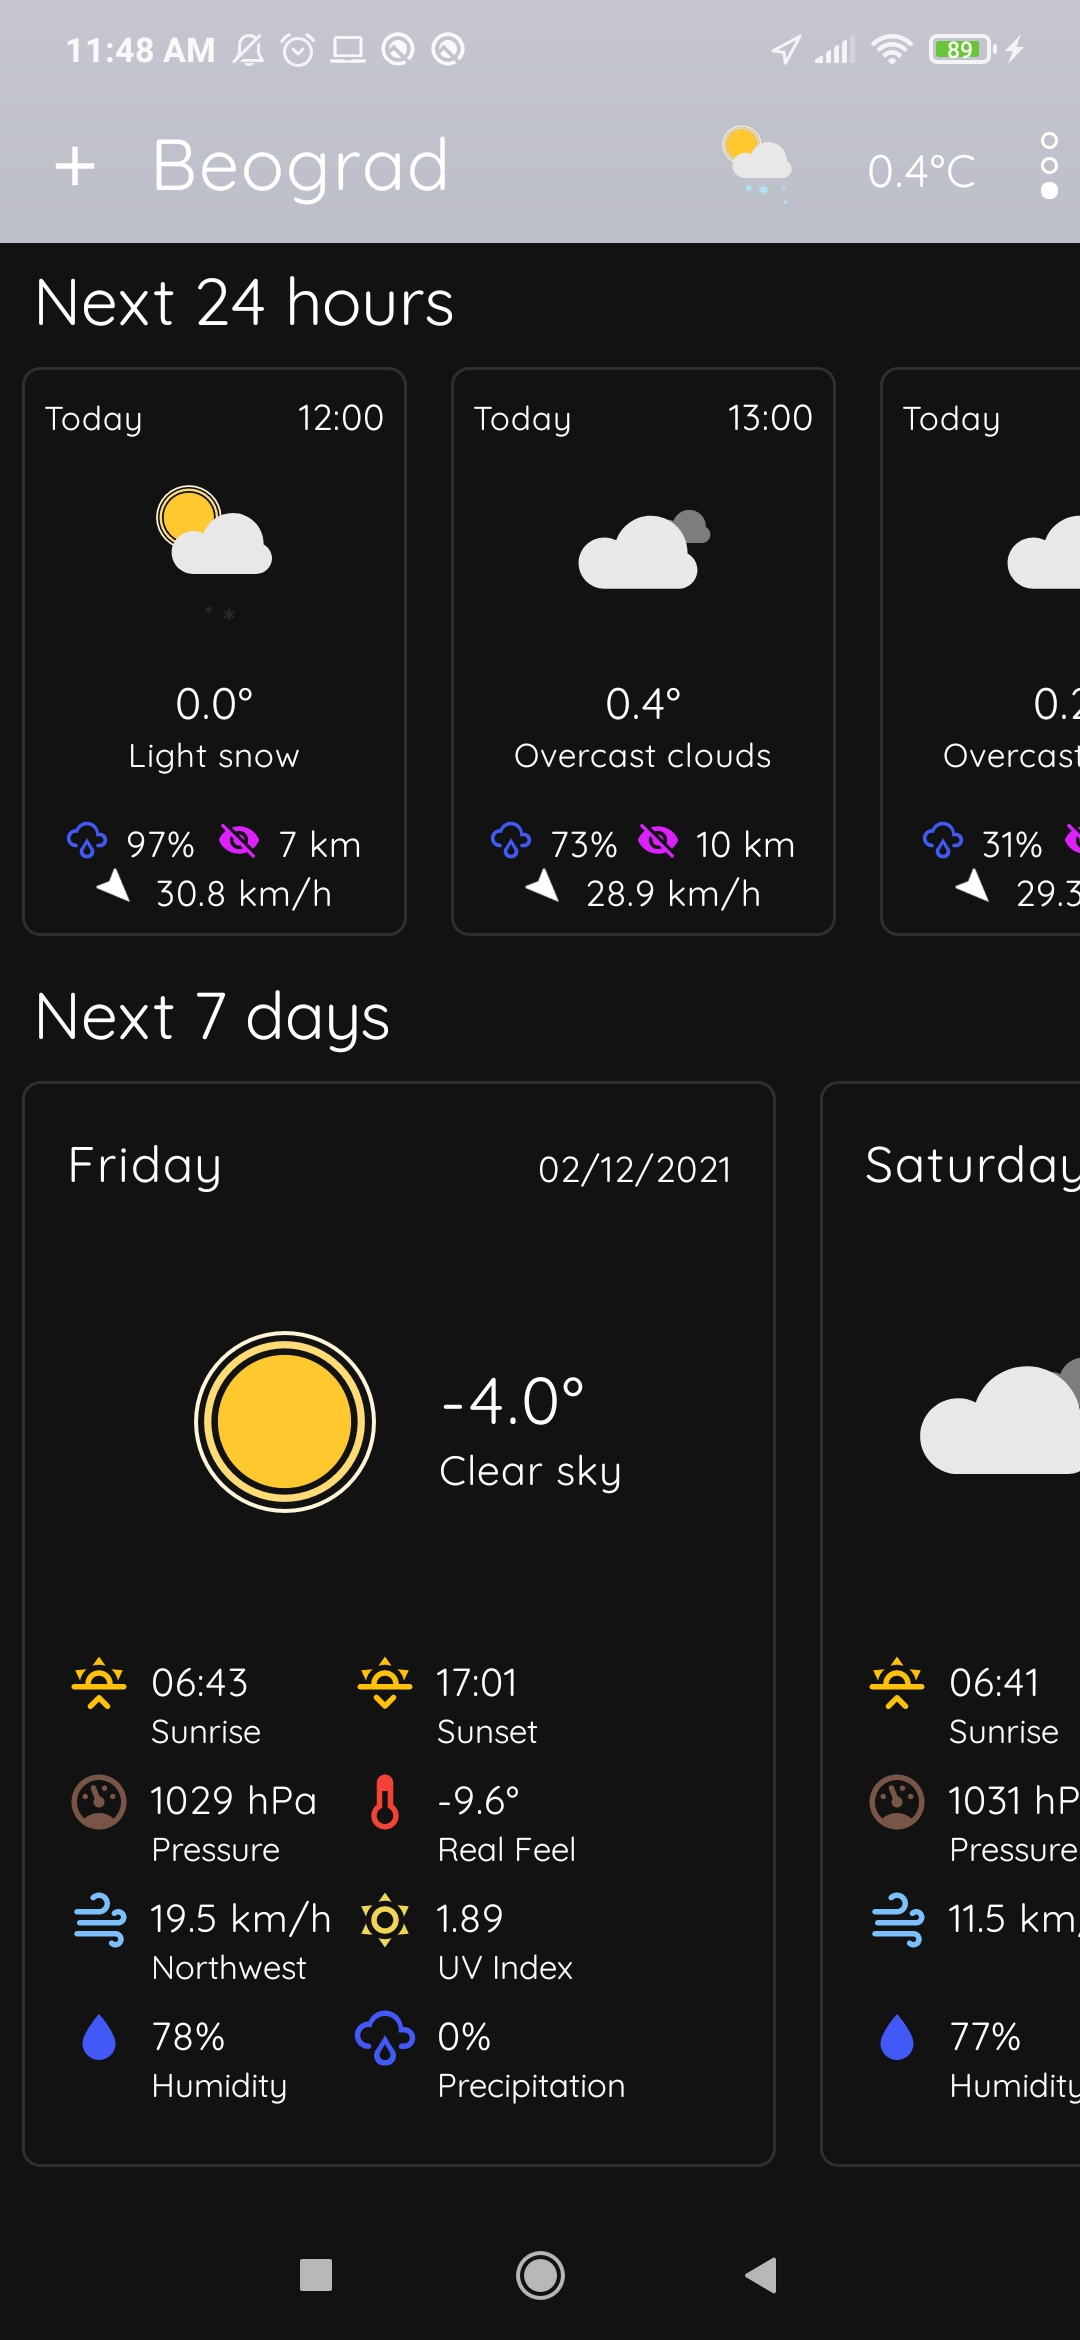
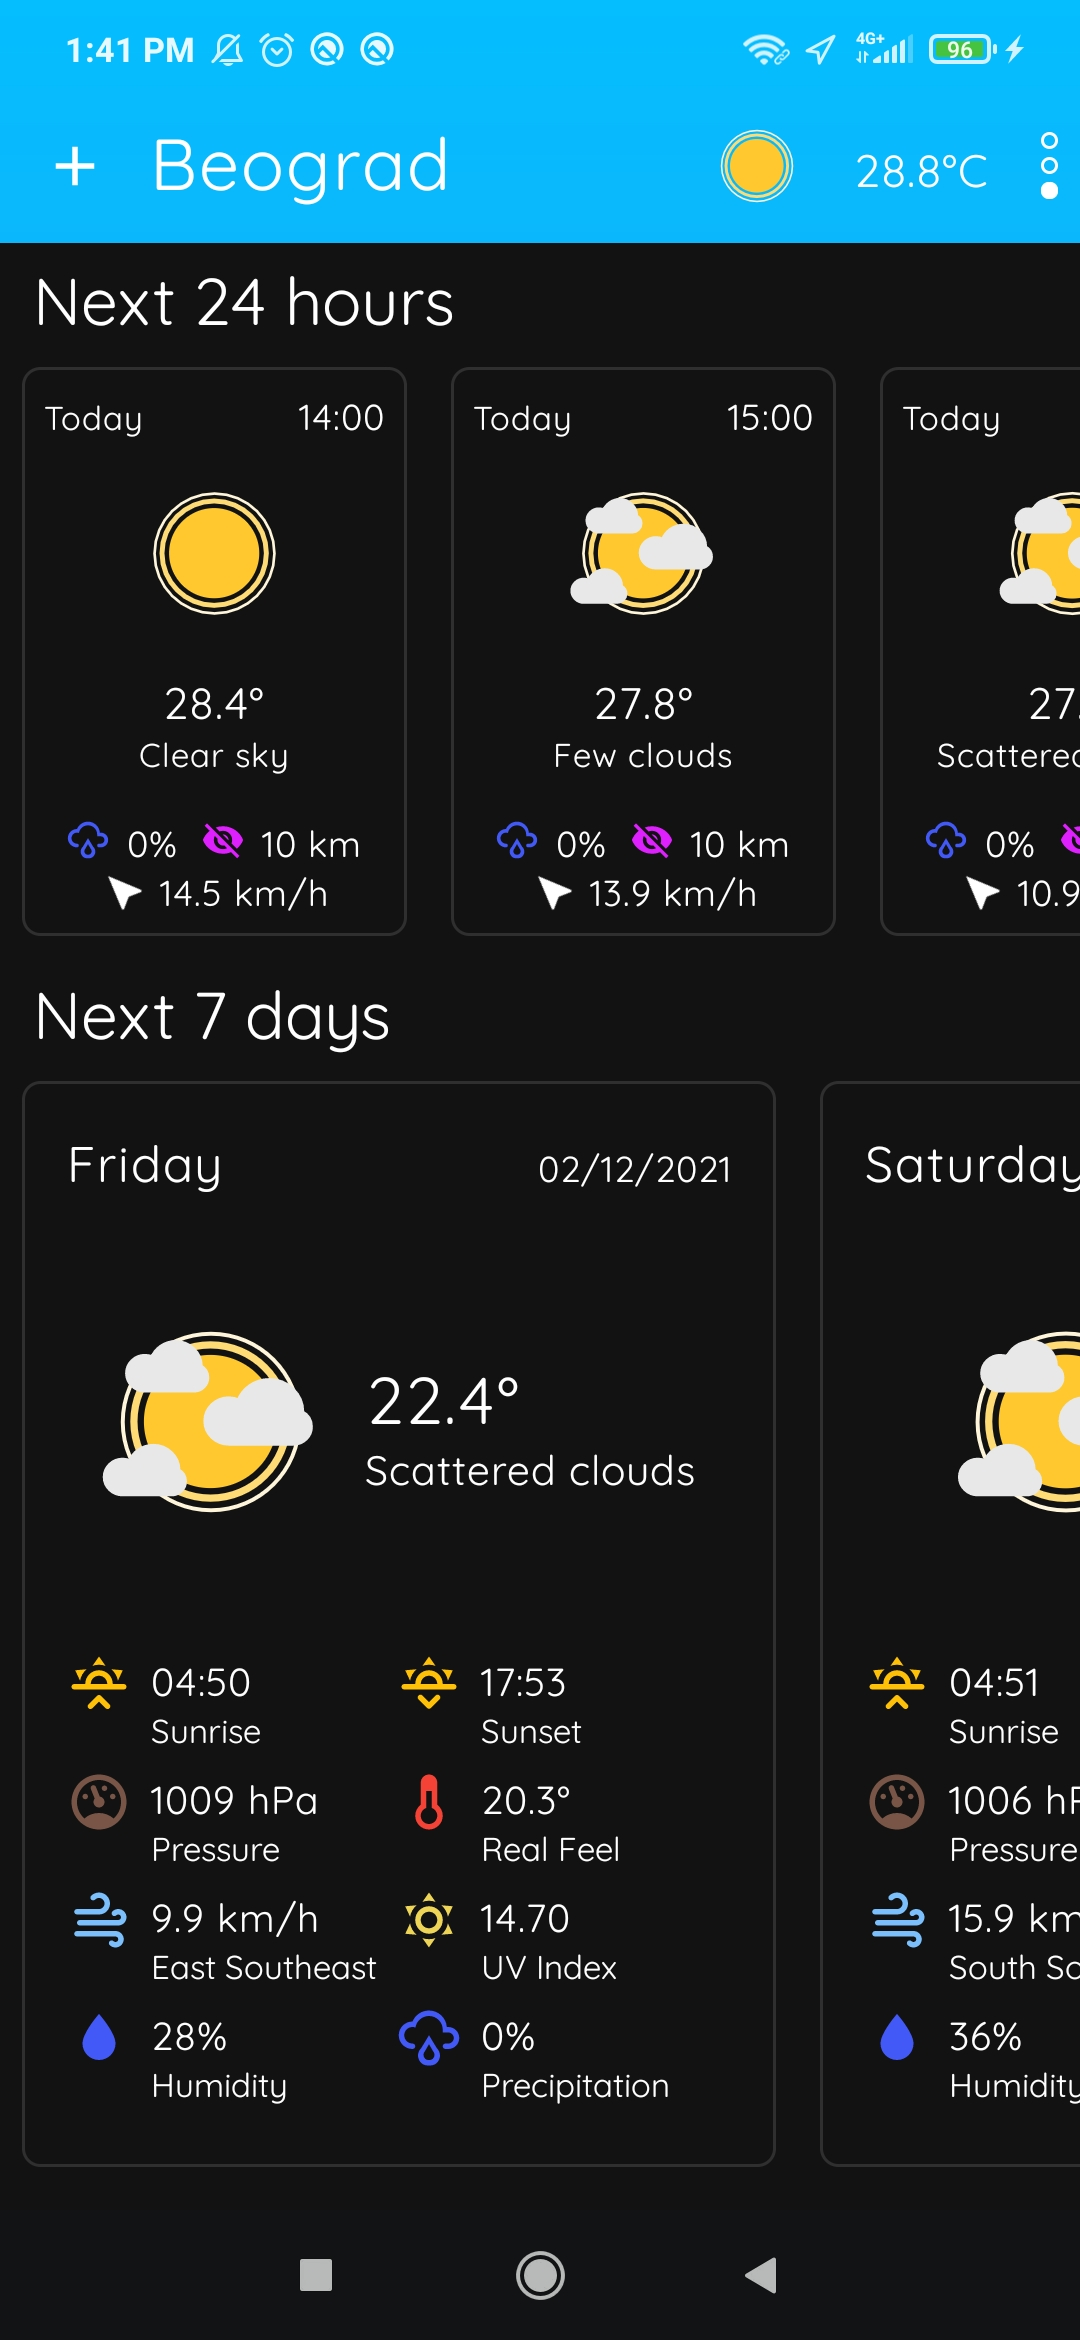
ADD: More screenshots

diff --git a/README.md b/README.md
@@ -38,33 +38,37 @@ Simple open source android application to get weather information
 
 ### Services and Libraries
 - Weather Service
-  * Open Weather [link](https://openweathermap.org)
+  * [Open Weather](https://openweathermap.org)
 - Fonts
-  * Quicksand [link](https://fonts.google.com/specimen/Quicksand)
+  * [Quicksand](https://fonts.google.com/specimen/Quicksand)
 - Icons
-  * Material Design Icons [link](https://materialdesignicons.com)
+  * [Material Design Icons](https://materialdesignicons.com)
 - Animated Icons
-  * Lottie Files designed by jochang from LottieFiles [link](https://lottiefiles.com/user/26177)
+  * [Lottie Files designed by jochang from LottieFiles](https://lottiefiles.com/user/26177)
 - Colors
-  * Gradient inspirations from uiGradients [link](https://uigradients.com)
+  * [Gradient inspirations from uiGradients](https://uigradients.com)
 - Libraries and Tools
-  * Android Jetpack [link](https://developer.android.com/jetpack)
-  * Android Kotlin [link](https://developer.android.com/kotlin)
-  * Google Play Service for Location [link](https://developer.android.com/training/location)
-  * Dexter [link](https://github.com/Karumi/Dexter)
-  * Lottie for Android [link](https://github.com/airbnb/lottie-android)
-  * Retrofit [link](https://github.com/square/retrofit)
-  * Moshi [link](https://github.com/square/moshi)
-  * ShapeOfView [link](https://github.com/florent37/ShapeOfView)
-  * Toasty [link](https://github.com/GrenderG/Toasty)
-  * Timber [link](https://github.com/JakeWharton/timber)
+  * [Android Jetpack](https://developer.android.com/jetpack)
+  * [Android Kotlin](https://developer.android.com/kotlin)
+  * [Google Play Service for Location](https://developer.android.com/training/location)
+  * [Dexter](https://github.com/Karumi/Dexter)
+  * [Lottie for Android](https://github.com/airbnb/lottie-android)
+  * [Retrofit](https://github.com/square/retrofit)
+  * [Moshi](https://github.com/square/moshi)
+  * [ShapeOfView](https://github.com/florent37/ShapeOfView)
+  * [Toasty](https://github.com/GrenderG/Toasty)
+  * [Timber](https://github.com/JakeWharton/timber)
 
 ### Screenshots
 <p float="left">
 <img src="https://github.com/CamiloDelReal/project-weather-x/blob/develop/screenshots/home.jpg" width="30%" height="30%" />
-<img src="https://github.com/CamiloDelReal/project-weather-x/blob/develop/screenshots/current_day_details.jpg" width="30%" height="30%" />
+<img src="https://github.com/CamiloDelReal/project-weather-x/blob/develop/screenshots/current_details.jpg" width="30%" height="30%" />
 <img src="https://github.com/CamiloDelReal/project-weather-x/blob/develop/screenshots/future_details.jpg" width="30%" height="30%" />
-<img src="https://github.com/CamiloDelReal/project-weather-x/blob/develop/screenshots/current_day_details_dark.jpg" width="30%" height="30%" />
+<img src="https://github.com/CamiloDelReal/project-weather-x/blob/develop/screenshots/current_details_dark.jpg" width="30%" height="30%" />
 <img src="https://github.com/CamiloDelReal/project-weather-x/blob/develop/screenshots/future_details_dark.jpg" width="30%" height="30%" />
+<img src="https://github.com/CamiloDelReal/project-weather-x/blob/develop/screenshots/about_popup.jpg" width="30%" height="30%" />
+<img src="https://github.com/CamiloDelReal/project-weather-x/blob/develop/screenshots/home_light_snow.jpg" width="30%" height="30%" />
+<img src="https://github.com/CamiloDelReal/project-weather-x/blob/develop/screenshots/home_heavy_rain_and_mist.jpg" width="30%" height="30%" />
+<img src="https://github.com/CamiloDelReal/project-weather-x/blob/develop/screenshots/home_night.jpg" width="30%" height="30%" />
 </p>
 
